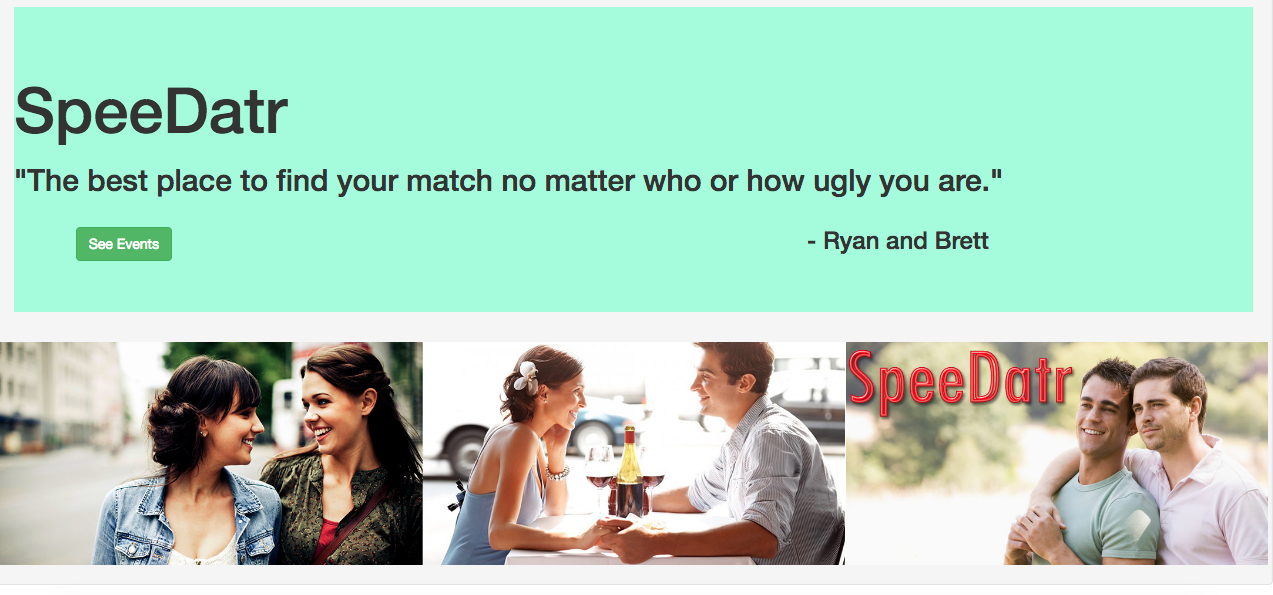
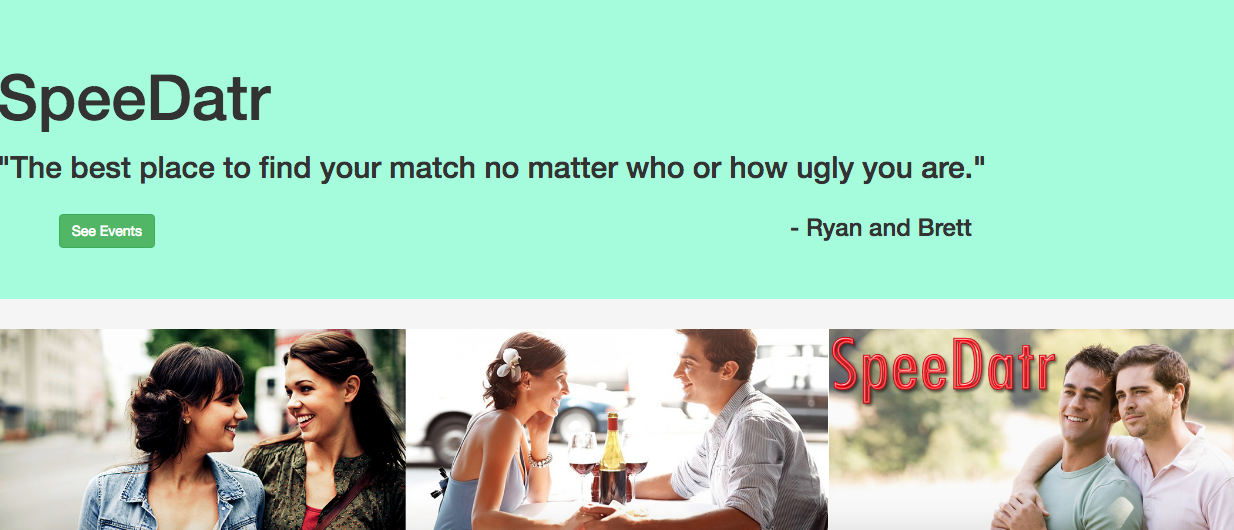
Finished footer

diff --git a/home.html b/home.html
@@ -222,7 +222,7 @@
 </section> -->
 <!-- our team section -->
 <!-- Testimonials section -->
-<section id="testimonials" class="section testimonials no-padding">
+<!-- <section id="testimonials" class="section testimonials no-padding">
   <div class="container-fluid">
     <div class="row no-gutter">
       <div class="flexslider">
@@ -263,7 +263,7 @@
       </div>
     </div>
   </div>
-</section>
+</section> -->
 <!-- Testimonials section -->
 
 <!-- contact section -->
@@ -271,16 +271,17 @@
   <div class="container">
     <div class="row">
       <div class="col-md-8 col-md-offset-2 conForm">
-        <h5>Shoot An Email</h5>
-        <p>We are happy to talk you through any projects or run live demos for those wishing to see what it is to use our products and how they look like.</p>
-        <div id="message"></div>
-        <form method="post" action="php/contact.php" name="cform" id="cform">
-          <input name="name" id="name" type="text" class="col-xs-12 col-sm-12 col-md-12 col-lg-12" placeholder="Your name..." >
-          <input name="email" id="email" type="email" class=" col-xs-12 col-sm-12 col-md-12 col-lg-12 noMarr" placeholder="Email Address..." >
-          <textarea name="comments" id="comments" cols="" rows="" class="col-xs-12 col-sm-12 col-md-12 col-lg-12" placeholder="Project Details..."></textarea>
-          <input type="submit" id="submit" name="send" class="submitBnt" value="Send your query">
-          <div id="simple-msg"></div>
-        </form>
+        <h5>Contact Me</h5>
+        <p>I am happy to talk you through my projects or run live demos.</p>
+        <div id="email">
+        <a href="mailto:brettschules@gmail.com?Subject=Portfolio%20Inquiry" target="_top">Email</a>
+        </div>
+        <div id="linkedin">
+          <a href="https://www.linkedin.com/in/brett-schules-a30a16a3/" target="_blank" >LinkedIn<a/>
+        </div>
+      <div id="github">
+        <a href="https://github.com/brettschules" target="_blank">Github<a/>
+      </div>
       </div>
     </div>
   </div>
@@ -292,33 +293,9 @@
   <div class="footer-top section">
     <div class="container">
       <div class="row">
-        <div class="footer-col col-md-6">
-          <h5>Our Office Location</h5>
-          <p>Collins Street West Victoria 8007 Australia.<br>
-            1800 1234 56789 / 98532100987<br>
-            support@lexis.com</p>
-          <p>Copyright © 2015 Lexis Inc. All Rights Reserved. Made with <i class="fa fa-heart pulse"></i> by <a href="http://www.designstub.com/">Designstub</a></p>
-        </div>
-        <div class="footer-col col-md-3">
-          <h5>Services We Offer</h5>
-          <p>
-          <ul>
-            <li><a href="#">Digital Strategy</a></li>
-            <li><a href="#">Websites</a></li>
-            <li><a href="#">Videography</a></li>
-            <li><a href="#">Social Media</a></li>
-            <li><a href="#">User Experience</a></li>
-          </ul>
-          </p>
-        </div>
-        <div class="footer-col col-md-3">
-          <h5>Share with Love</h5>
-          <ul class="footer-share">
-            <li><a href="#"><i class="fa fa-facebook"></i></a></li>
-            <li><a href="#"><i class="fa fa-twitter"></i></a></li>
-            <li><a href="#"><i class="fa fa-linkedin"></i></a></li>
-            <li><a href="#"><i class="fa fa-google-plus"></i></a></li>
-          </ul>
+        <div>
+          <h5>Thank you for checking my site out!</h5>
+          <p>Copyright © 2017 Brett Schules Portfolio</p>
         </div>
       </div>
     </div>

diff --git a/css/main.css b/css/main.css
@@ -86,7 +86,7 @@ ul li {
 	list-style: none;
 }
 .section {
-	padding: 100px 0;
+	padding: 40px 0;
 }
 .no-padding {
 	padding: 0;
@@ -553,9 +553,10 @@ ul li {
 .conForm h5 {
 	font-size: 30px;
 }
+
 .conForm p {
 	text-align: center;
-	margin: 7%;
+	margin: 3%;
 }
 .conForm input {
 	color: #797979;
@@ -625,7 +626,7 @@ padding:15px 30px 15px 30px;
 }
 .footer-top {
 	background-color: #181818;
-	padding-top: 50px;
+	padding-top: 30px;
 }
 .footer-bottom {
 	background-color: #313454;
